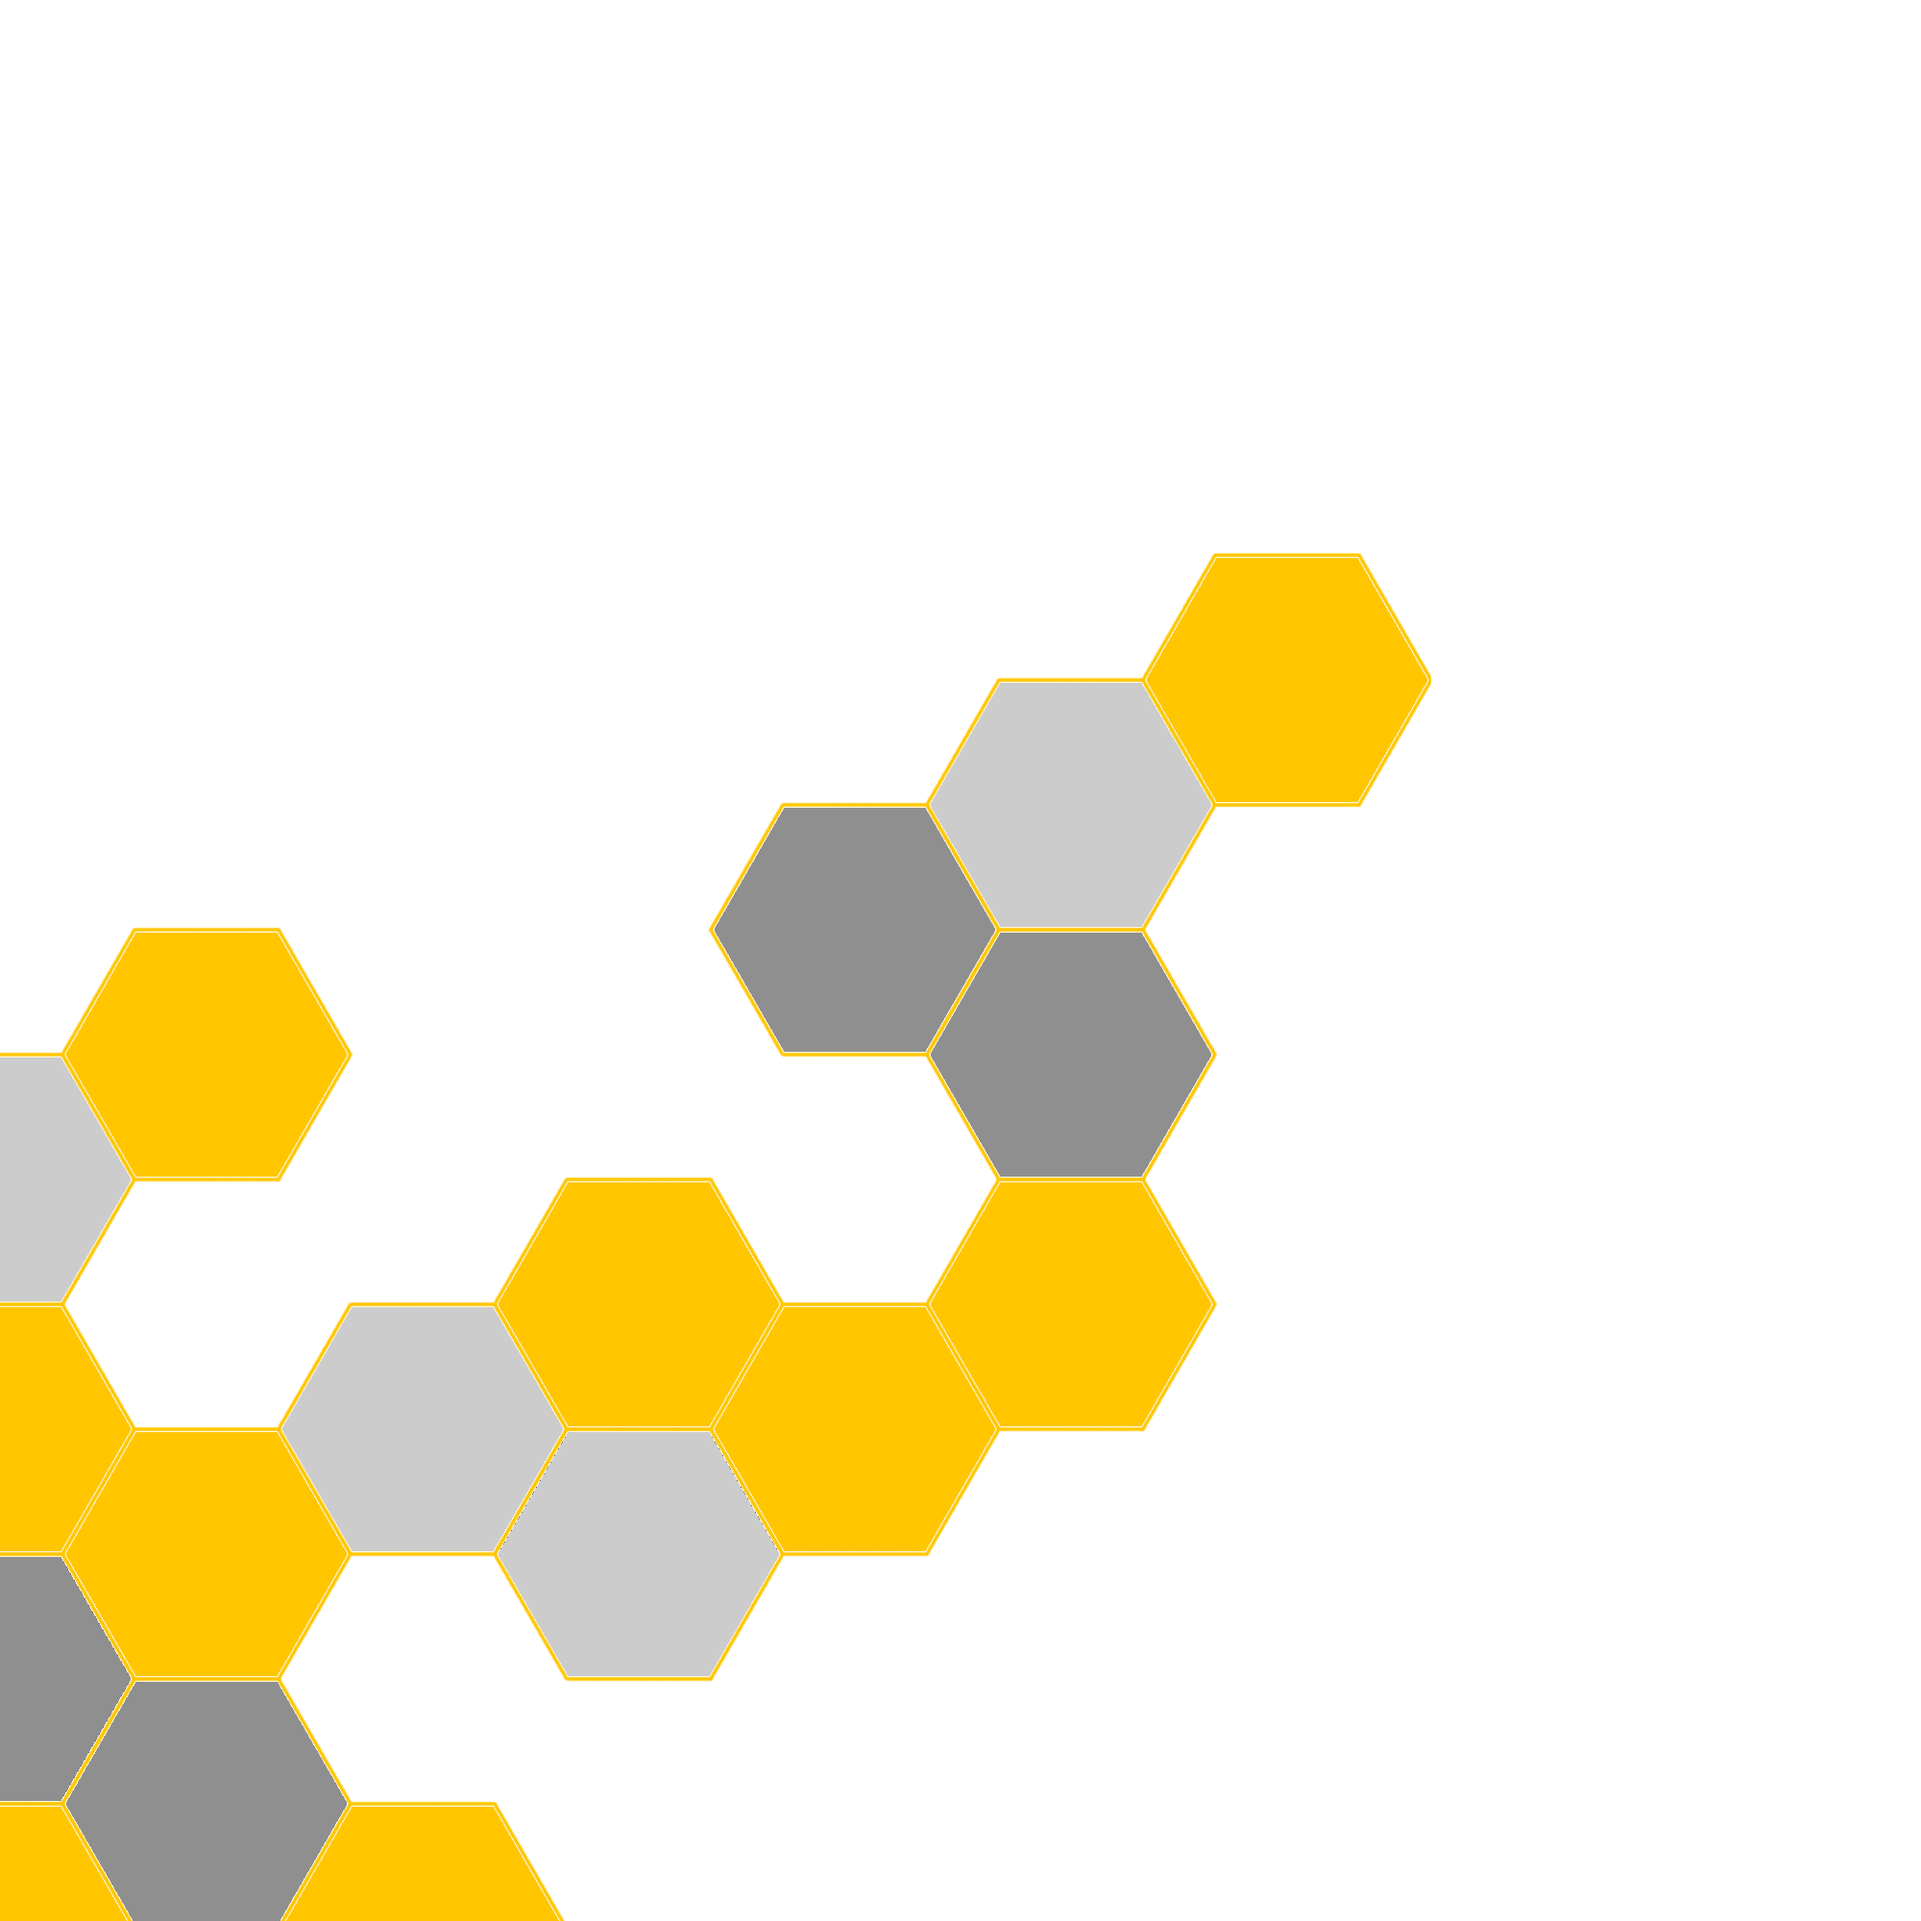
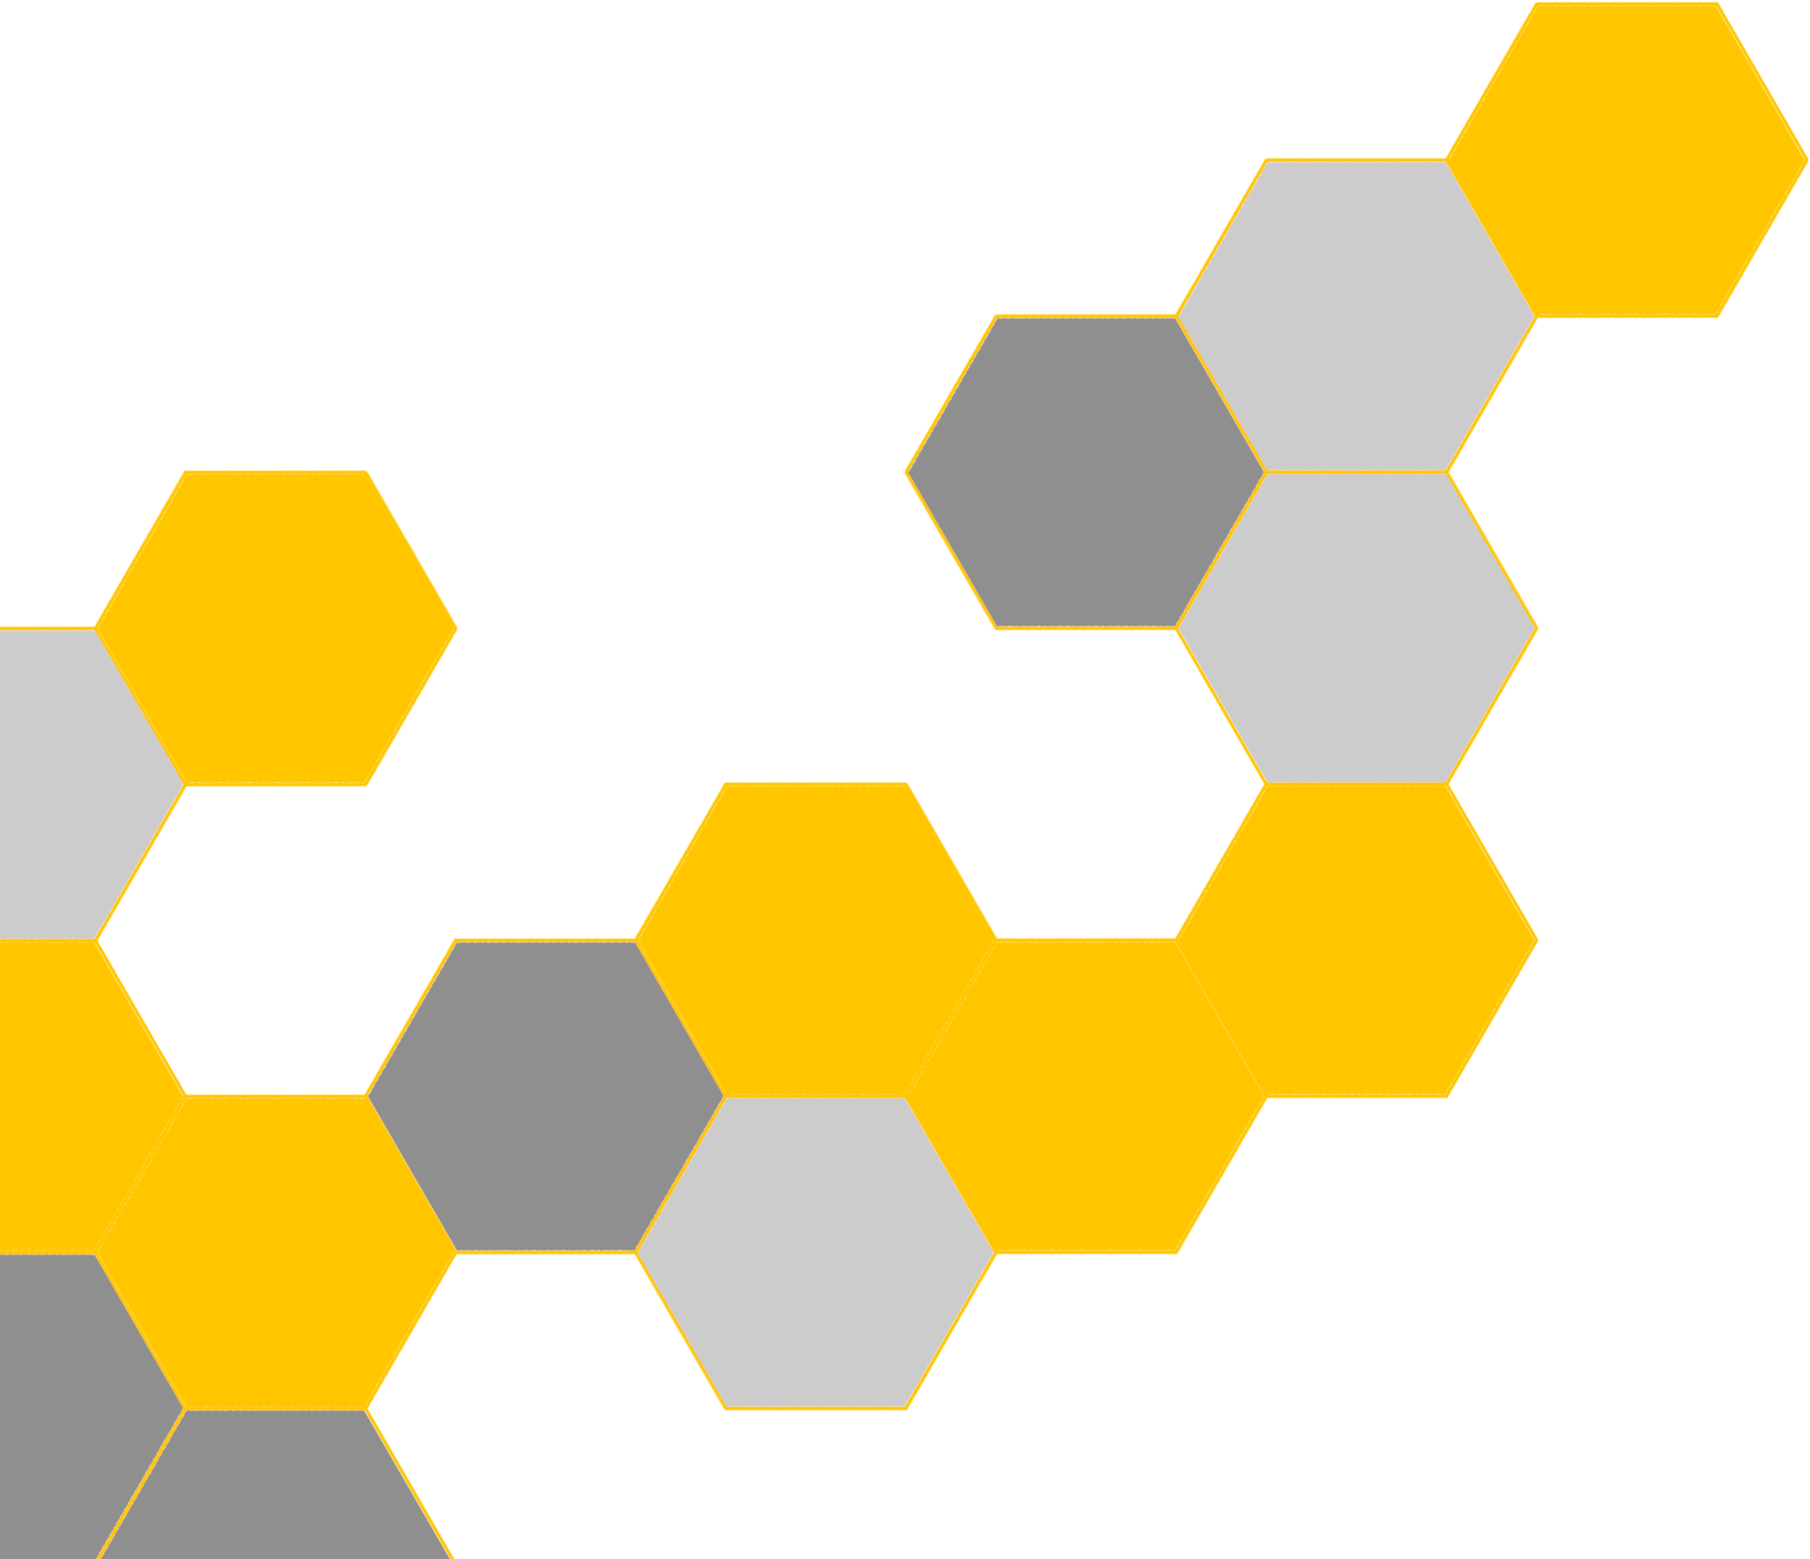
hex and mobile nav modal styling

diff --git a/public/css/style.css b/public/css/style.css
@@ -9,10 +9,6 @@ body {
 
 main {
     flex: 1 0 auto;
-    background-image: url("/img/sayagata-400px.png") ;
-    background-position: center center;
-    background-repeat:  no-repeat;
-    background-size:  cover;
 }
 
 .main-content {
@@ -22,6 +18,25 @@ main {
     flex-direction: column;
     justify-content: center;
     align-items: center;
+}
+
+.index-page-hex-include {
+  width: 100%;
+}
+
+.index-page-hex-exclude {
+    width: 90%;
+    margin: 0 auto;
+    display: flex;
+    flex-direction: column;
+    justify-content: center;
+    align-items: center;
+}
+
+.hex {
+    position: absolute;
+    height: 700px;
+    bottom: 0;
 }
 
 .desktop-header {
@@ -80,22 +95,18 @@ header {
     color: #fff;
 }
 
-
-
 .desktop-header li:not(.nav-logo) {
     display: none;
 }
 
 .mobile-nav-modal {
-    z-index: 1;
+    position: absolute;
+    z-index: 2;
     width: 100%;
-    height: 100%;
+    flex-grow: 1;
     background: #8F8F8F;
     color: #fff;
-}
-
-.hex {
-    height: 1050px;
+    opacity: 0.7;
 }
 
 .profile-img {
@@ -119,7 +130,9 @@ main,
        display: none;
     }
 
-
+.mobile-nav-modal {
+    background: none;
+}
 
     .desktop-header li:not(.nav-logo) {
         display: block;
